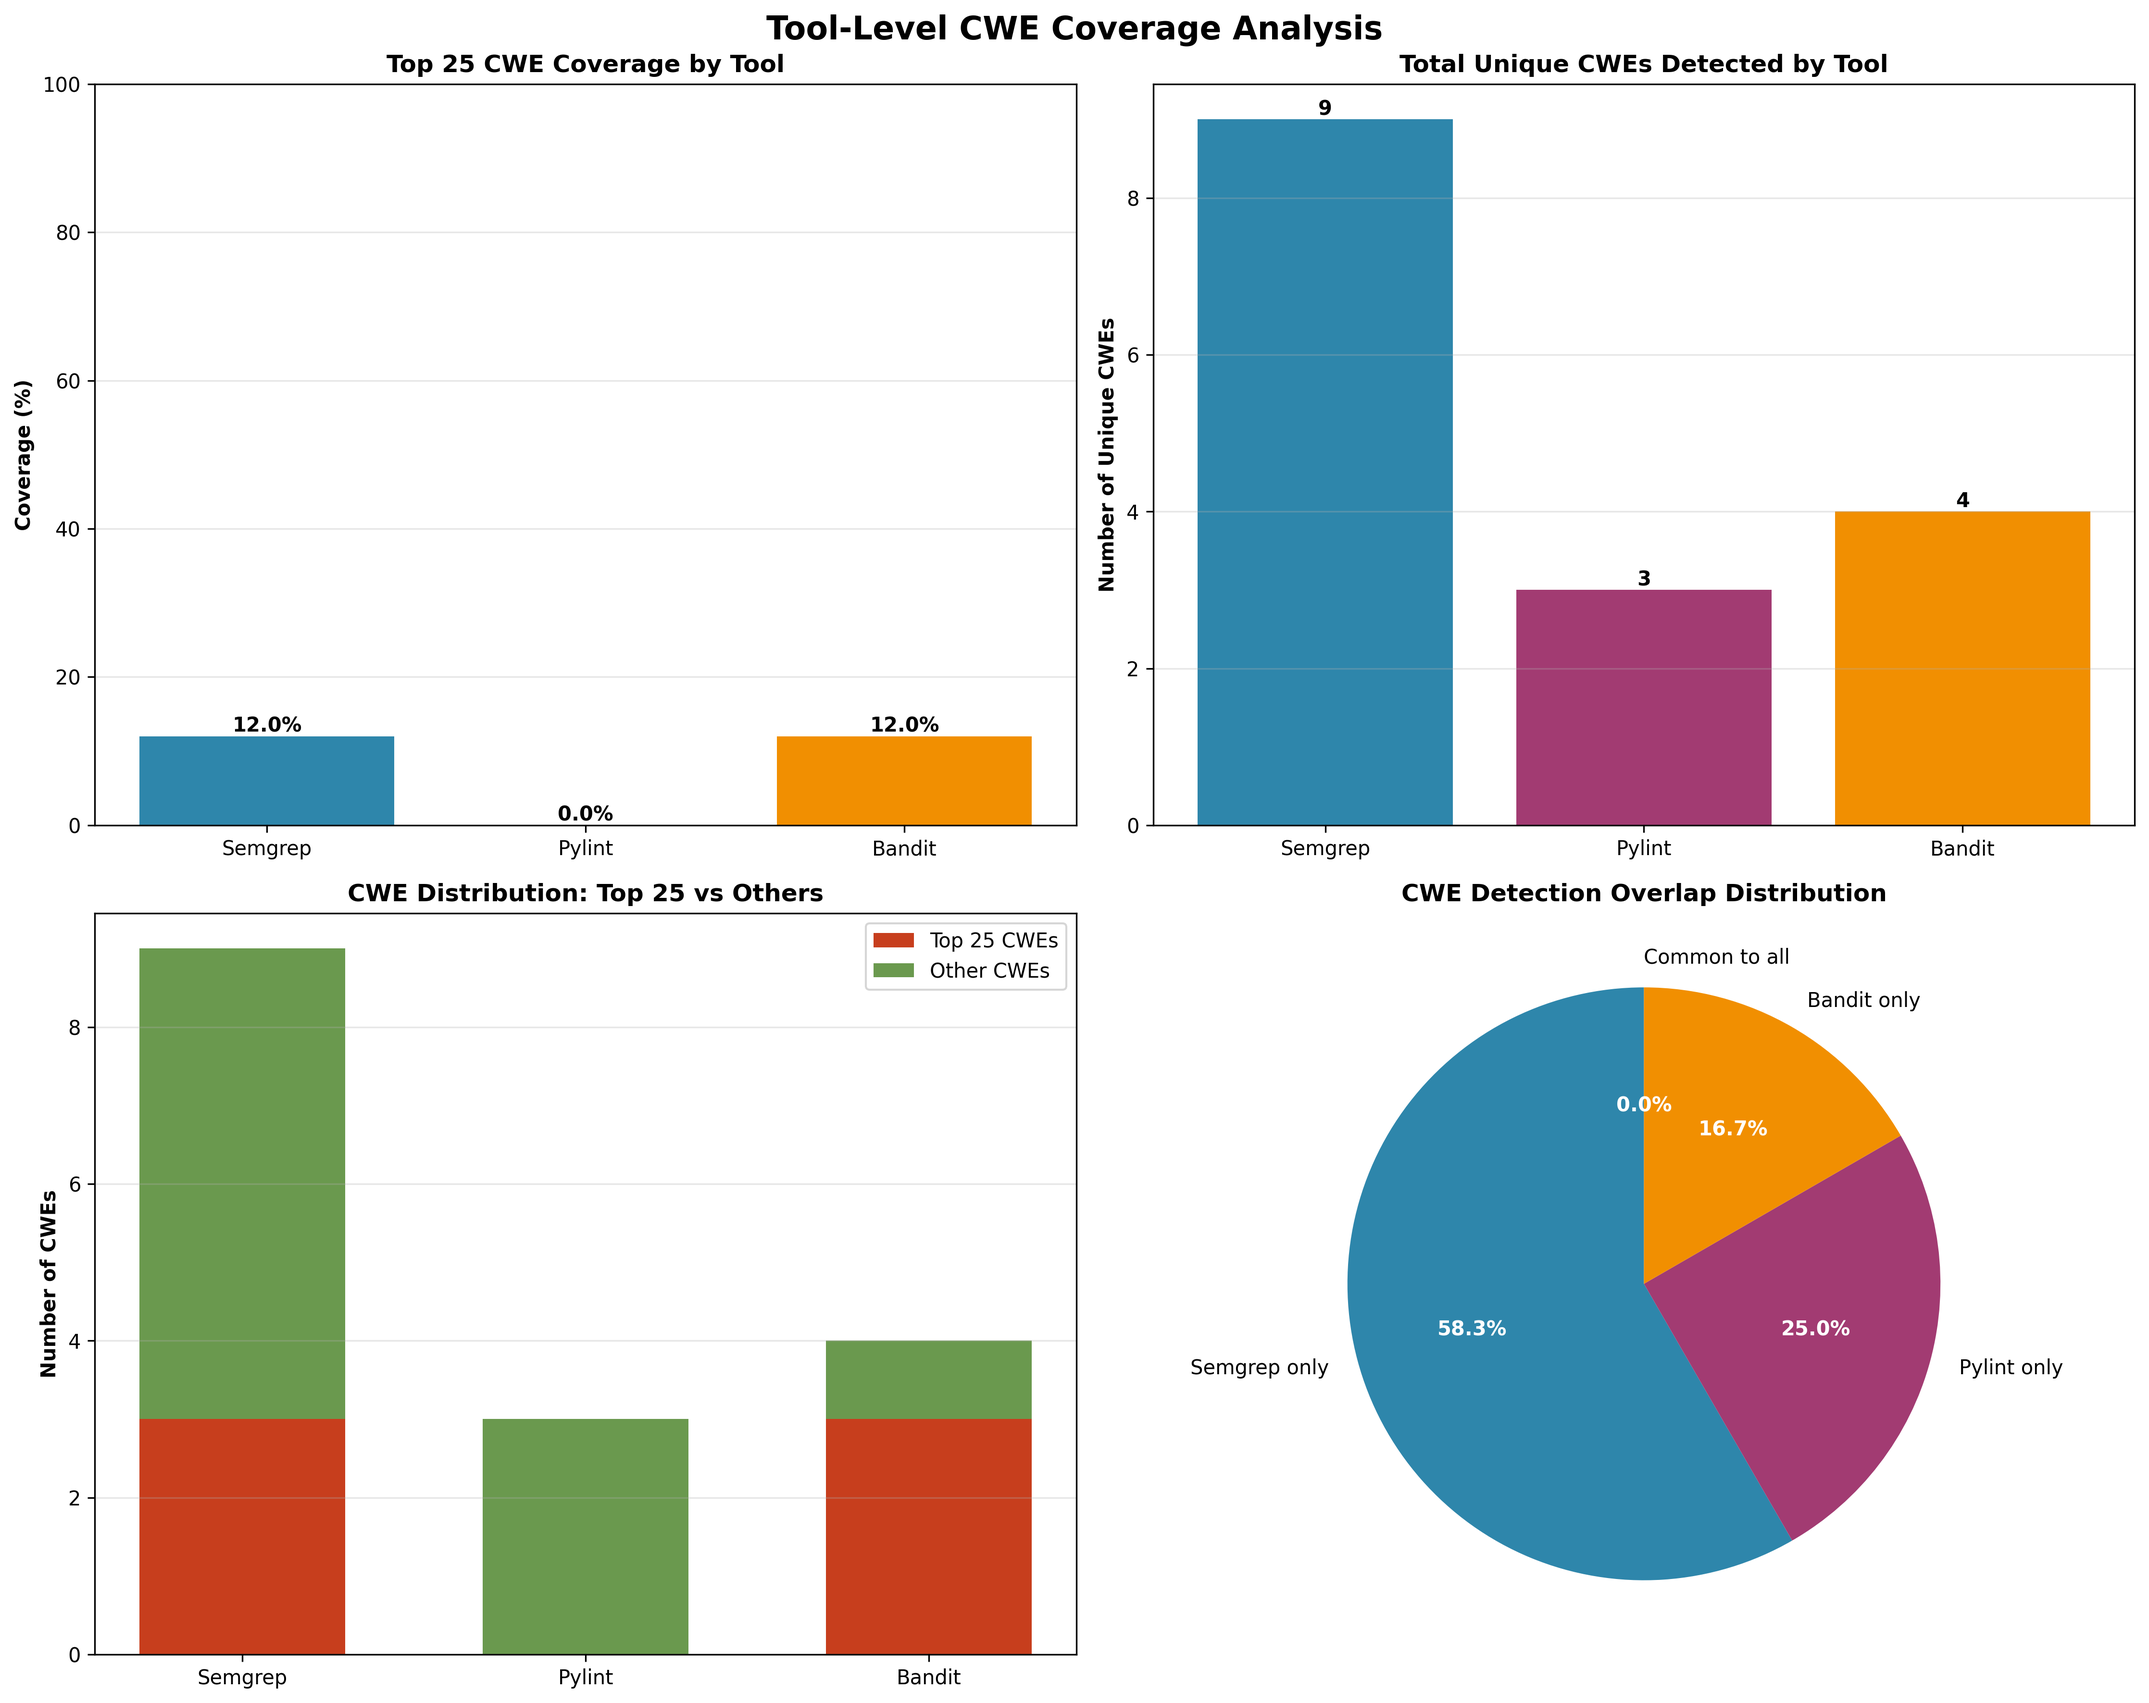
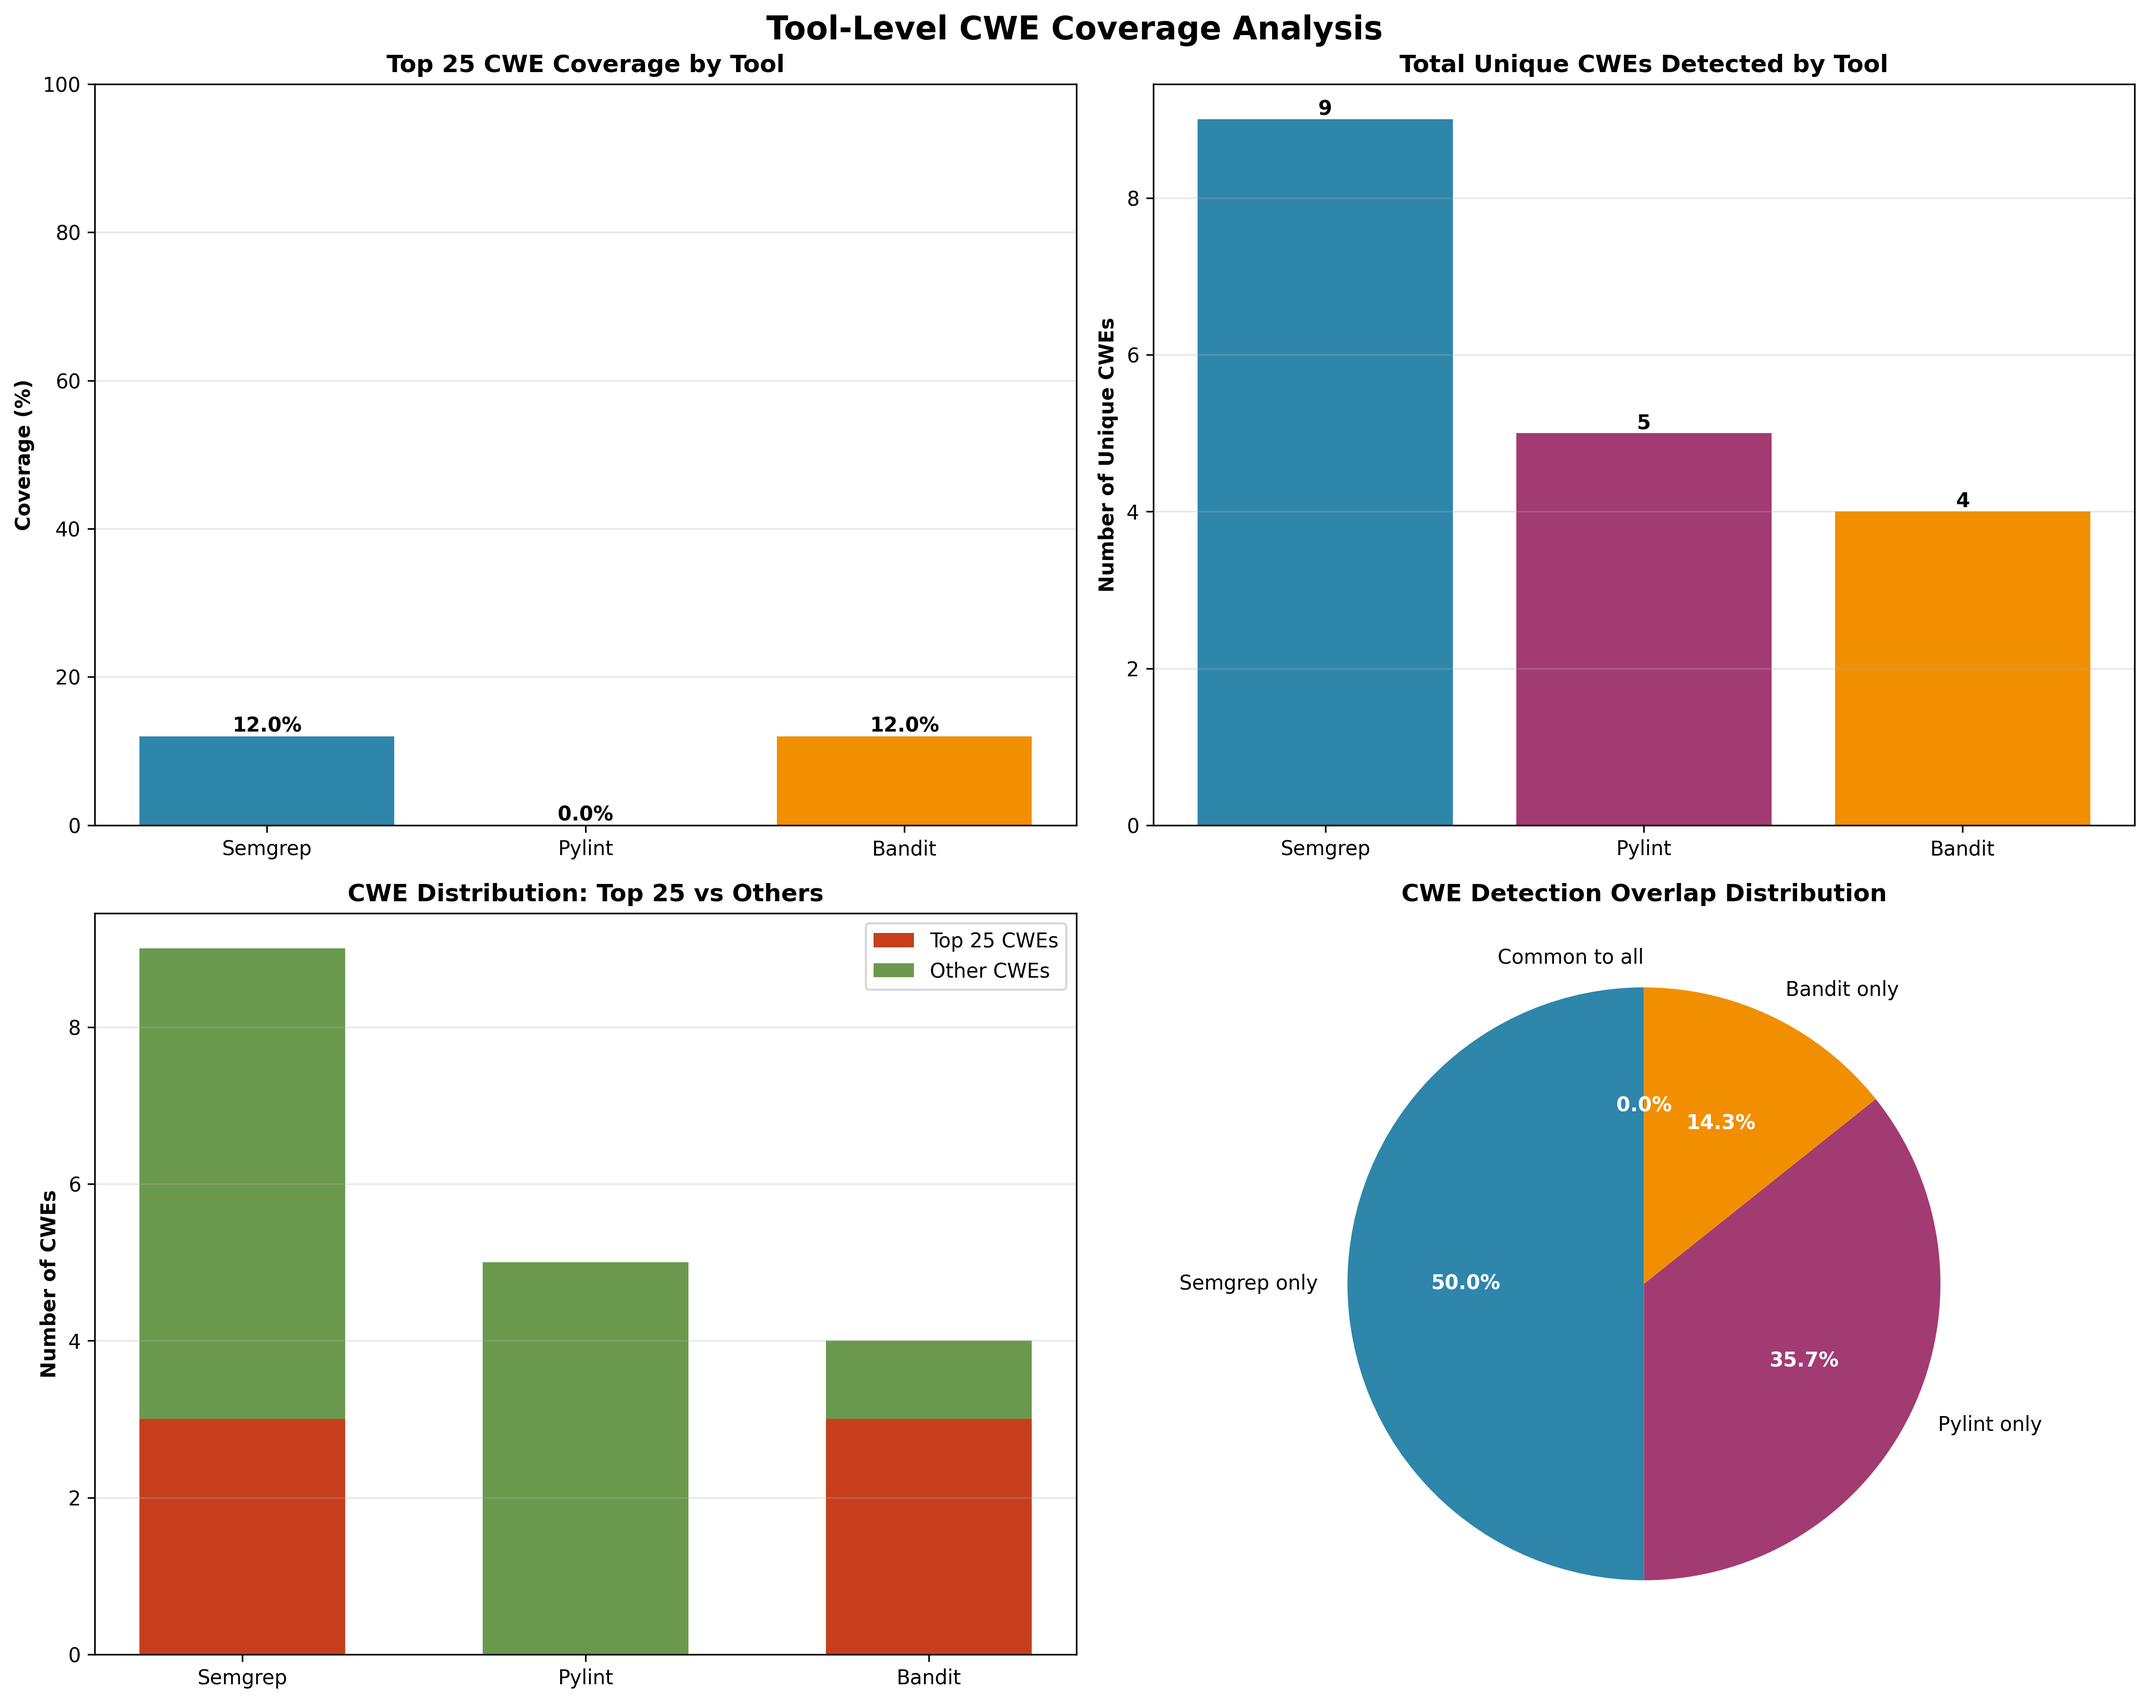
remove unknowns from pylint

diff --git a/Lab 6/main.py b/Lab 6/main.py
@@ -339,6 +339,18 @@ PYLINT_CWE_MAPPING = {
     
     # Path traversal potential
     'W1113': ['CWE-22'],  # keyword-arg-before-vararg (path manipulation)
+    
+    # Expanded mappings to reduce UNKNOWNs
+    'E0001': ['CWE-20'],   # syntax-error (input validation)
+    'E1136': ['CWE-843'],  # unsubscriptable-object (type confusion)
+    'E1120': ['CWE-20'],   # no-value-for-parameter
+    'E1121': ['CWE-20'],   # too-many-function-args
+    'E1133': ['CWE-664'],  # not-an-iterable (improper resource use)
+    'E0102': ['CWE-710'],  # function-redefined
+    'W0101': ['CWE-691'],  # unreachable (control flow)
+    'W0622': ['CWE-732'],  # redefined-builtin (privilege issue)
+    'W0613': ['CWE-563'],  # unused-argument
+    'R1705': ['CWE-691'],  # no-else-return
 }
 
 
@@ -371,7 +383,11 @@ def aggregate_pylint(repo_name: str, data: Dict) -> List[Dict]:
         cwes = PYLINT_CWE_MAPPING.get(msg_id, PYLINT_CWE_MAPPING.get(symbol, ["CWE-UNKNOWN"]))
         
         for cwe in cwes:
-            counts[cwe] += 1
+            if cwe != "CWE-UNKNOWN":
+                counts[cwe] += 1
+                
+        # for cwe in cwes:       
+        #     counts[cwe] += 1
     
     return [{
         "Project_name": repo_name,
